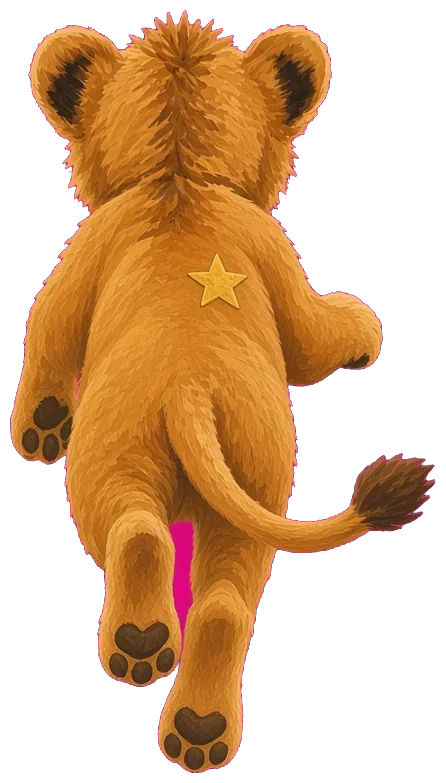
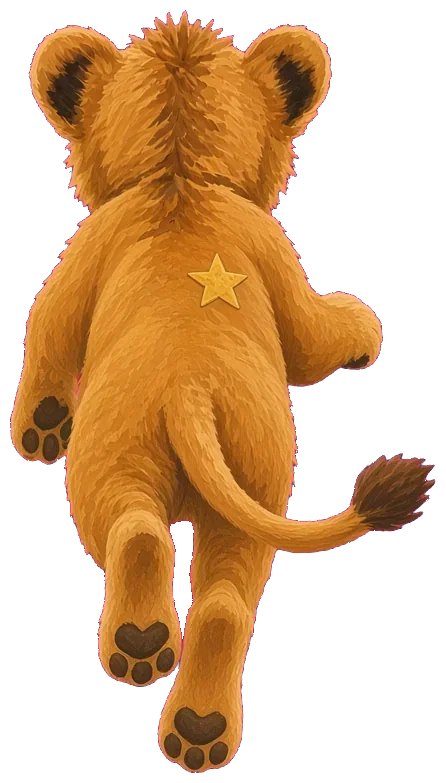
Keep the running cubs in front of the road.
The billboard depth sat on the paws, so the road painted a flat plate across Anbessa's torso. The sprites now draw in front of the ground, and the leftover magenta rim is gone.

Changed region(s): [[0.3789, 0.6437, 0.4372, 0.8276]]

diff --git a/src/Runner3D.jsx b/src/Runner3D.jsx
@@ -353,6 +353,10 @@ function buildPictureAnimal(tex) {
     transparent: true,
     alphaTest: 0.08,
     depthWrite: false,
+    // The billboard's depth is the paws. The road between the camera and
+    // those paws was winning the depth test and painting a flat plate
+    // across the torso. The cubs stay in front of the ground.
+    depthTest: false,
   }))
   // Bottom of the painting (the paws) sits on the ground.
   sprite.center.set(0.5, 0)
@@ -632,7 +636,7 @@ class RunnerWorld {
     this.vista = buildHighlandVista()
     this.scene.add(this.vista)
 
-    // Picture-book cub, feet at the group origin, face turned back to the chase camera.
+    // Picture-book cub, feet at the group origin, running away up the road.
     this.playerChar = buildPictureAnimal(cast.anbessa)
     this.player = this.playerChar.group
     this.player.scale.setScalar(1.95)
